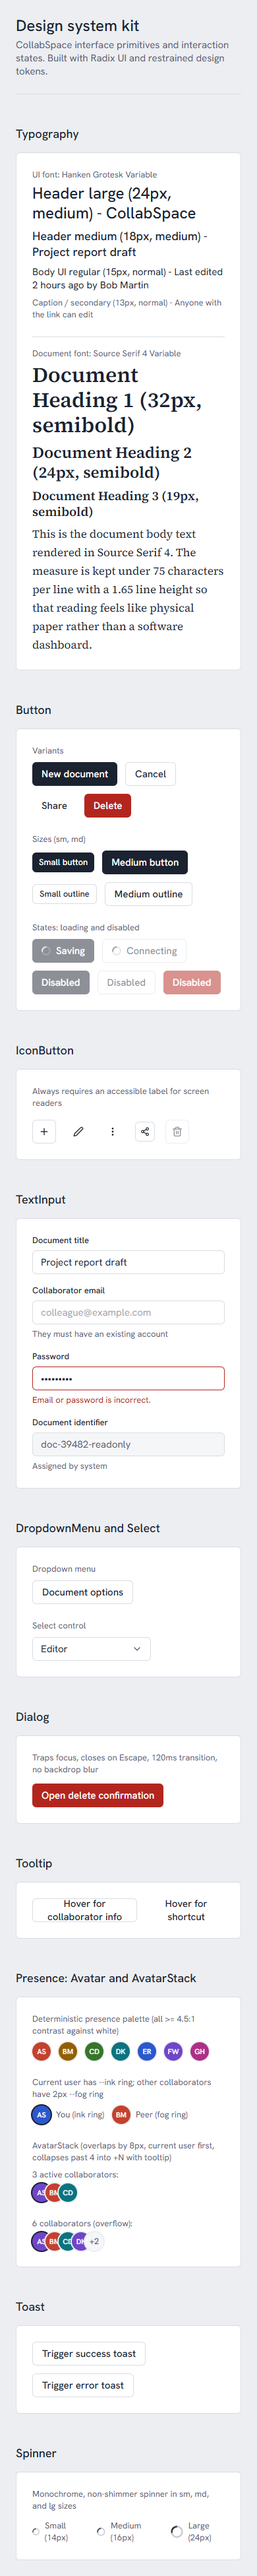
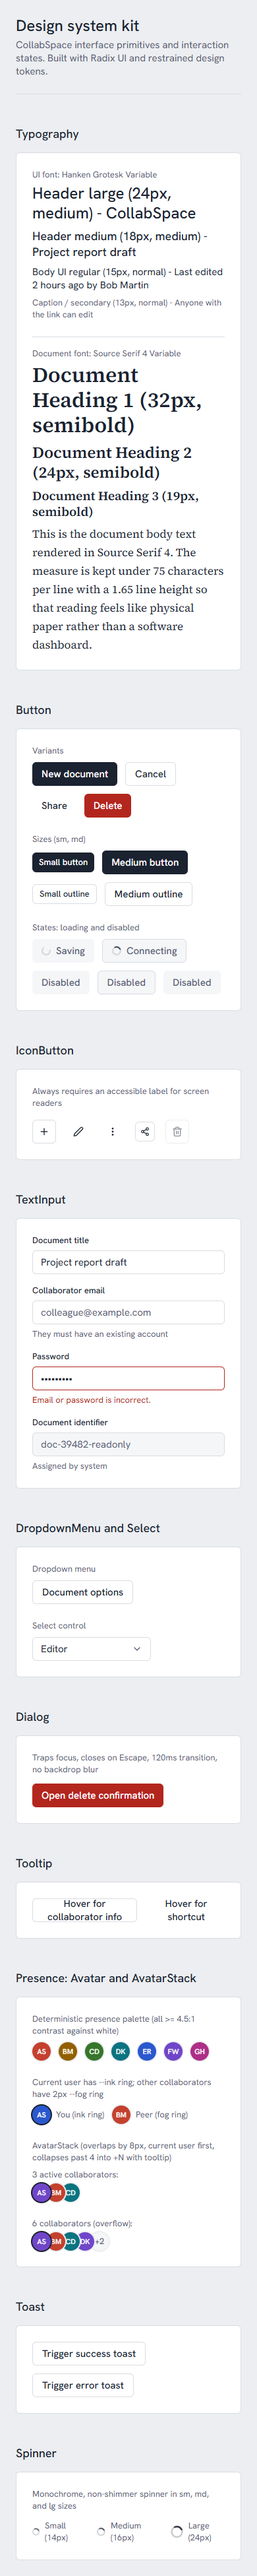
T2.1: apply G1 fixes (AvatarStack z-order, disabled button styles, placeholder contrast) and build users repo layer

Changed region(s): [[0.1231, 0.3438, 0.3692, 0.4062], [0.6462, 0.375, 0.8615, 0.4062], [0.1538, 0.8438, 0.3692, 0.875]]

diff --git a/client/src/components/ui/Button.tsx b/client/src/components/ui/Button.tsx
@@ -24,7 +24,7 @@ export const Button = React.forwardRef<HTMLButtonElement, ButtonProps>(
     ref,
   ) => {
     const baseStyles =
-      "inline-flex items-center justify-center font-sans font-medium transition-colors select-none rounded-[6px] focus-visible:outline-2 focus-visible:outline-focus focus-visible:outline-offset-2 disabled:opacity-50 disabled:cursor-not-allowed cursor-pointer";
+      "inline-flex items-center justify-center font-sans font-medium transition-colors select-none rounded-[6px] focus-visible:outline-2 focus-visible:outline-focus focus-visible:outline-offset-2 disabled:bg-wash disabled:text-ink-soft disabled:cursor-not-allowed cursor-pointer";
 
     const sizeStyles = {
       sm: "h-[30px] px-2.5 text-ui-xs gap-1.5",
@@ -32,10 +32,14 @@ export const Button = React.forwardRef<HTMLButtonElement, ButtonProps>(
     }[size];
 
     const variantStyles = {
-      primary: "bg-ink text-paper hover:bg-ink/90 active:bg-ink",
-      secondary: "bg-paper text-ink border border-line hover:bg-wash active:bg-line/40",
-      ghost: "bg-transparent text-ink hover:bg-wash active:bg-line/30",
-      danger: "bg-danger text-paper hover:bg-danger/90 active:bg-danger",
+      primary:
+        "bg-ink text-paper hover:bg-ink/90 active:bg-ink disabled:bg-wash disabled:text-ink-soft disabled:border-transparent",
+      secondary:
+        "bg-paper text-ink border border-line hover:bg-wash active:bg-line/40 disabled:bg-wash disabled:text-ink-soft disabled:border-line",
+      ghost:
+        "bg-transparent text-ink hover:bg-wash active:bg-line/30 disabled:bg-transparent disabled:text-ink-soft/40",
+      danger:
+        "bg-danger text-paper hover:bg-danger/90 active:bg-danger disabled:bg-wash disabled:text-ink-soft disabled:border-transparent",
     }[variant];
 
     return (

diff --git a/client/src/components/ui/AvatarStack.tsx b/client/src/components/ui/AvatarStack.tsx
@@ -28,14 +28,17 @@ export function AvatarStack({ users, max = 4, className = "" }: AvatarStackProps
   const overflowUsers = overflowCount > 0 ? sortedUsers.slice(max) : [];
 
   return (
-    <div className={`flex items-center -space-x-2 ${className}`.trim()}>
-      {visibleUsers.map((user) => (
+    <div className={`flex items-center -space-x-1.5 ${className}`.trim()}>
+      {visibleUsers.map((user, index) => (
         <SimpleTooltip
           key={user.id}
           content={user.isCurrentUser ? `${user.name} (You)` : user.name}
           side="bottom"
         >
-          <div className="relative inline-block hover:z-10">
+          <div
+            className="relative inline-block transition-transform hover:z-20"
+            style={{ zIndex: 10 + (visibleUsers.length - index) }}
+          >
             <Avatar
               name={user.name}
               userId={user.id}
@@ -52,7 +55,7 @@ export function AvatarStack({ users, max = 4, className = "" }: AvatarStackProps
           side="bottom"
         >
           <div
-            className="relative inline-flex items-center justify-center shrink-0 w-[28px] h-[28px] rounded-full ring-2 ring-fog bg-wash text-ink-soft text-ui-xs font-medium select-none hover:z-10"
+            className="relative inline-flex items-center justify-center shrink-0 w-[28px] h-[28px] rounded-full ring-2 ring-fog bg-wash text-ink-soft text-ui-xs font-medium select-none z-[5]"
             aria-label={`${overflowCount} more collaborator${overflowCount > 1 ? "s" : ""}`}
           >
             +{overflowCount}

diff --git a/server/src/modules/users/userRepository.ts b/server/src/modules/users/userRepository.ts
@@ -1,0 +1,53 @@
+import { query } from "../../database/db.js";
+
+export interface User {
+  id: string;
+  name: string;
+  email: string;
+  password_hash: string;
+  created_at: Date;
+}
+
+export interface CreateUserInput {
+  name: string;
+  email: string;
+  password_hash: string;
+}
+
+export async function createUser(input: CreateUserInput): Promise<User> {
+  const trimmedName = input.name.trim();
+  const trimmedEmail = input.email.trim();
+
+  const result = await query<User>(
+    `INSERT INTO users (name, email, password_hash)
+     VALUES ($1, $2, $3)
+     RETURNING id, name, email, password_hash, created_at`,
+    [trimmedName, trimmedEmail, input.password_hash],
+  );
+
+  return result.rows[0]!;
+}
+
+export async function findByEmail(email: string): Promise<User | null> {
+  const trimmedEmail = email.trim().toLowerCase();
+
+  const result = await query<User>(
+    `SELECT id, name, email, password_hash, created_at
+     FROM users
+     WHERE lower(email) = lower($1)`,
+    [trimmedEmail],
+  );
+
+  return result.rows[0] ?? null;
+}
+
+export async function findById(id: string): Promise<User | null> {
+  const result = await query<User>(
+    `SELECT id, name, email, password_hash, created_at
+     FROM users
+     WHERE id = $1`,
+    [id],
+  );
+
+  return result.rows[0] ?? null;
+}

diff --git a/server/src/scripts/testUserRepo.ts b/server/src/scripts/testUserRepo.ts
@@ -1,0 +1,40 @@
+import { createUser, findByEmail, findById } from "../modules/users/userRepository.js";
+import { closePool } from "../database/db.js";
+
+async function main() {
+  const testEmail = `test_${Date.now()}@example.com`;
+  console.log(`Creating test user with email: ${testEmail}...`);
+
+  const created = await createUser({
+    name: "Aditya Test",
+    email: `  ${testEmail}  `,
+    password_hash: "hash_placeholder_123456",
+  });
+
+  console.log("Inserted user:", created);
+
+  if (created.email !== testEmail) {
+    throw new Error(`Email was not trimmed! Expected: ${testEmail}, Got: ${created.email}`);
+  }
+
+  const byEmail = await findByEmail(testEmail.toUpperCase());
+  if (!byEmail || byEmail.id !== created.id) {
+    throw new Error(`findByEmail failed with case insensitivity!`);
+  }
+  console.log("Successfully retrieved user by lowercase comparison:", byEmail.email);
+
+  const byId = await findById(created.id);
+  if (!byId || byId.id !== created.id) {
+    throw new Error(`findById failed!`);
+  }
+  console.log("Successfully retrieved user by ID:", byId.id);
+
+  console.log("All T2.1 user repository tests passed successfully!");
+}
+
+main()
+  .catch((err) => {
+    console.error("Error in testUserRepo:", err);
+    process.exit(1);
+  })
+  .finally(() => closePool());

diff --git a/client/src/components/ui/TextInput.tsx b/client/src/components/ui/TextInput.tsx
@@ -26,7 +26,7 @@ export const TextInput = React.forwardRef<HTMLInputElement, TextInputProps>(
           disabled={disabled}
           aria-invalid={!!error}
           aria-describedby={error ? errorId : hint ? hintId : undefined}
-          className={`h-[36px] px-3 font-sans text-ui-sm text-ink bg-paper border rounded-[6px] transition-colors placeholder:text-ink-soft/60 focus-visible:outline-2 focus-visible:outline-focus focus-visible:outline-offset-2 disabled:bg-wash disabled:text-ink-soft disabled:cursor-not-allowed ${
+          className={`h-[36px] px-3 font-sans text-ui-sm text-ink bg-paper border rounded-[6px] transition-colors placeholder:text-ink-soft focus-visible:outline-2 focus-visible:outline-focus focus-visible:outline-offset-2 disabled:bg-wash disabled:text-ink-soft disabled:cursor-not-allowed ${
             error ? "border-danger focus-visible:outline-danger" : "border-line hover:border-ink-soft/40 focus:border-line"
           } ${className}`.trim()}
           {...props}

diff --git a/client/src/pages/KitPage.tsx b/client/src/pages/KitPage.tsx
@@ -283,7 +283,7 @@ export function KitPage() {
           </section>
 
           {/* Avatar and AvatarStack */}
-          <section className="space-y-4">
+          <section id="avatar-section" className="space-y-4">
             <h2 className="text-ui-md font-medium text-ink">Presence: Avatar and AvatarStack</h2>
             <div className="bg-paper p-6 rounded-[6px] border border-line space-y-6">
               <div>

diff --git a/server/src/modules/users/index.ts b/server/src/modules/users/index.ts
@@ -1,0 +1,1 @@
+export * from "./userRepository.js";
